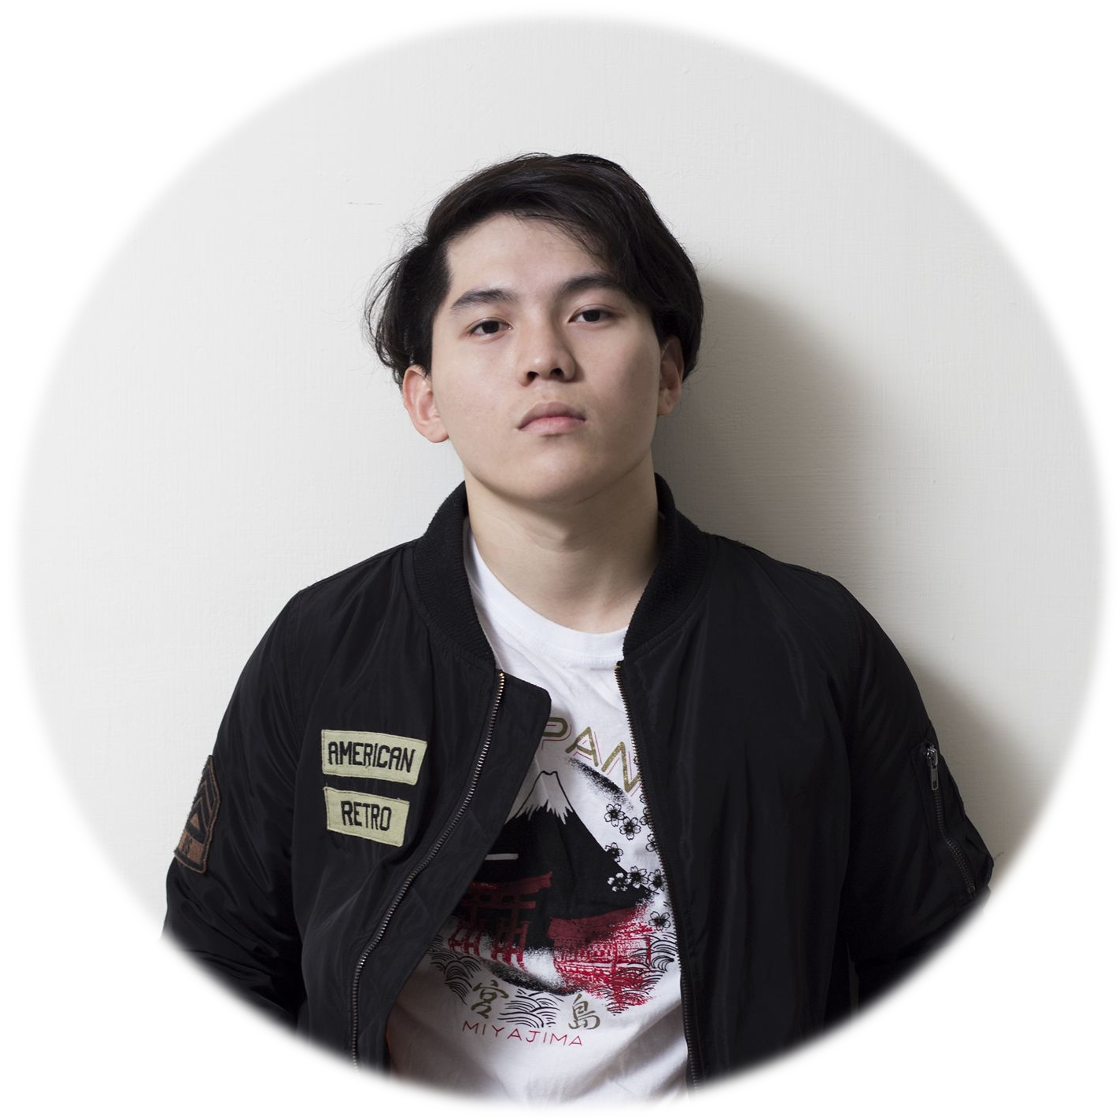
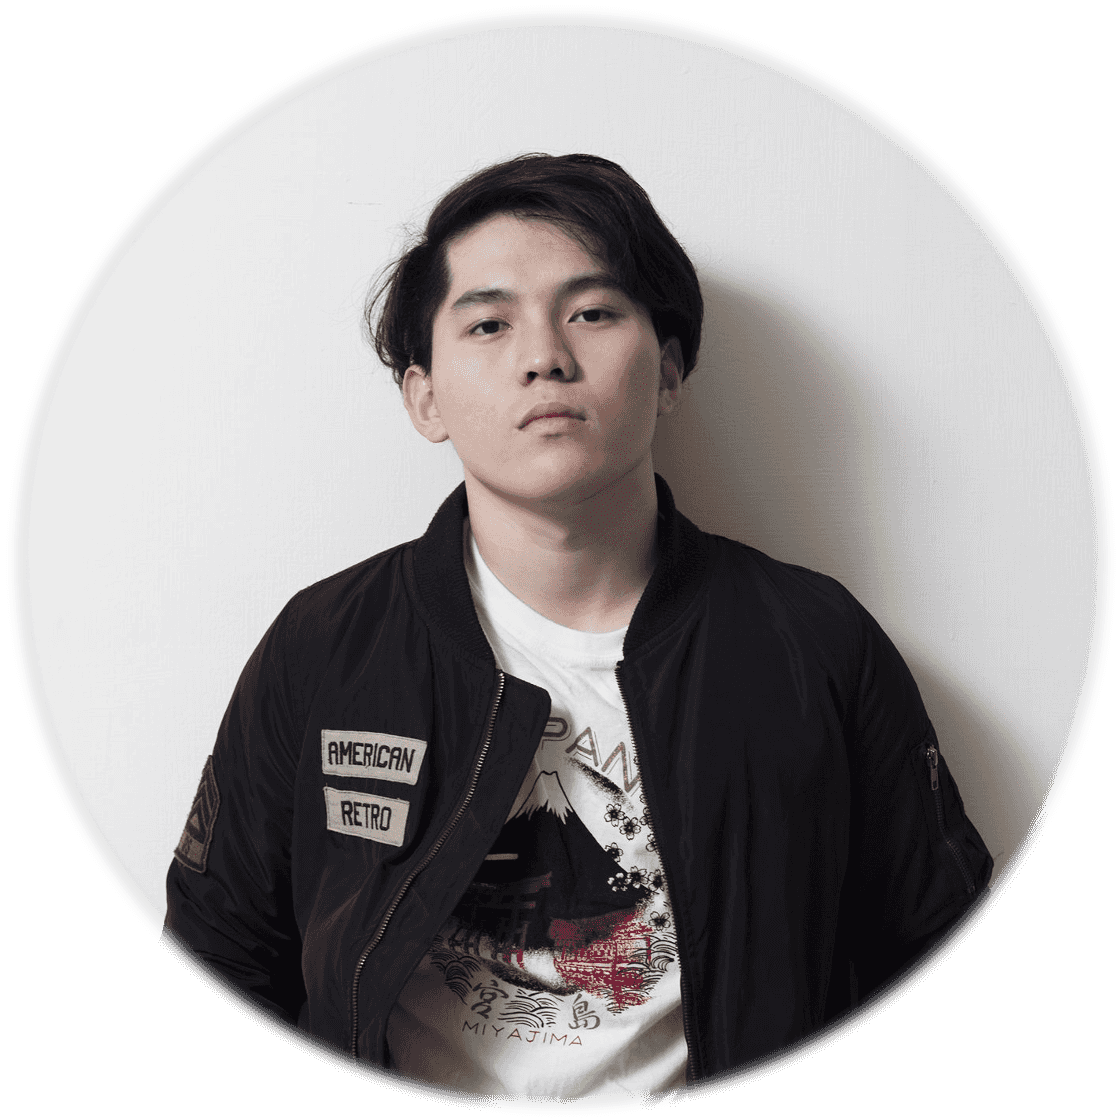
compress pictures in history and conyributors

diff --git a/README.md b/README.md
@@ -14,6 +14,8 @@ $ npm run local_mac
 ```bash
 $ npm start
 ```
+### 0731 進度 by 建琁
+* 壓縮contributors和history內的照片。
 
 ### 0716 進度 by 君輔
 * https://eeplus.herokuapp.com/ 的資料庫網址更新，重新註冊後應該可以登入了
